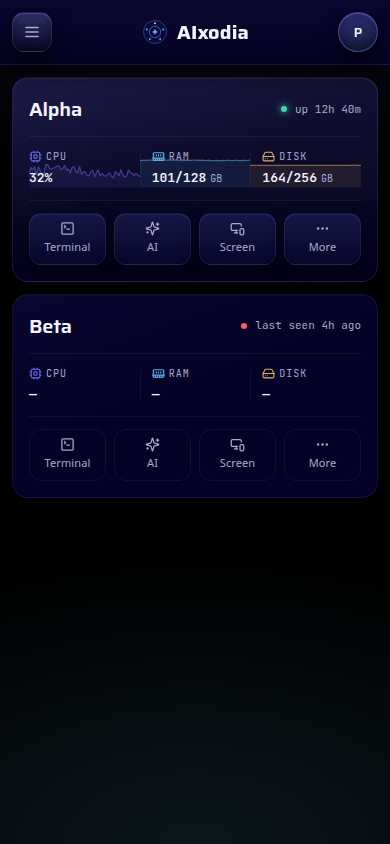
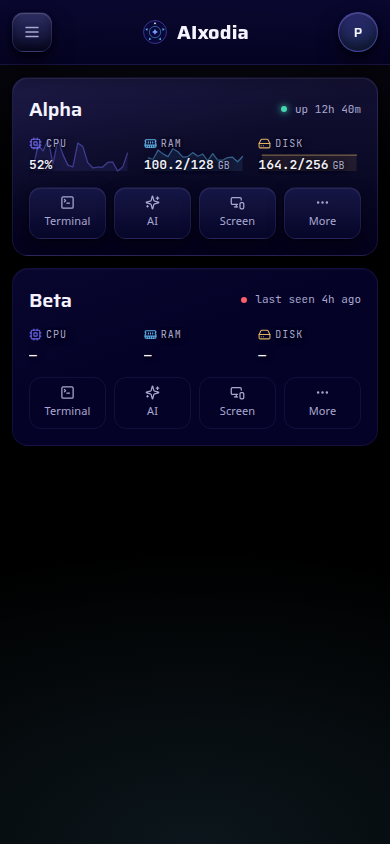
Tighten the spark so it sits with its reading
Move the chart's margins from a generous band to 9 above and 91 below, and pull
its sides in from 8 to 4, so the line starts under the label, ends above the
value and fills its third. 5/95 was tried first and the dips crossed the digits;
9/91 keeps them clear.

diff --git a/src/mock/EnginesMock.tsx b/src/mock/EnginesMock.tsx
@@ -135,12 +135,13 @@ function sampleSeries(seed: number, base: number, swing: number): number[] {
  *  window, one sample draws a level, none draws nothing. */
 function Spark({ values, ceiling, tone }: { values: number[]; ceiling: number; tone: string }) {
   if (!values.length) return null
-  /* The box is the whole cell, so the margins the chart keeps from the frame are
-     part of its geometry rather than CSS offsets: an absolutely positioned SVG
-     with a viewBox keeps its own aspect ratio and refuses to be inset. */
-  const TOP = 14
-  const FLOOR = 88
-  const SIDE = 8
+  /* The box is the whole cell, so the margins the chart keeps are part of its
+     geometry rather than CSS offsets: an absolutely positioned SVG with a viewBox
+     keeps its own aspect ratio and refuses to be inset. The line runs close to the
+     label and the reading, so it reads as theirs rather than as a band behind. */
+  const TOP = 9
+  const FLOOR = 91
+  const SIDE = 4
   const min = Math.min(...values)
   const max = Math.max(...values)
   const span = Math.max(max - min, ceiling * 0.04)

diff --git a/docs/ux-visual/verification/mock.md b/docs/ux-visual/verification/mock.md
@@ -595,3 +595,14 @@ relaxed from `clamp(11px, 3.2vw, …)` to `clamp(11.5px, 3.6vw, …)` and the
 `max-width: 355px` padding fallback was deleted — it had nothing left to reclaim.
 
 Audits clean at 320, 360, 390, 430 and 1440: no spills, `pageScrollY 0`.
+
+## Round 30 — the line belongs to its reading
+
+The spark keeps its margins inside the SVG, not in CSS, so the room around it is
+geometry: `TOP 14 → 9`, `FLOOR 88 → 91`, `SIDE 8 → 4`. The line now starts just
+under the label and stops just above the reading, and it reaches the edges of its
+third instead of floating a few pixels in.
+
+A first pass at `TOP 5 / FLOOR 95` was rejected on the screenshot: the dips ran
+into the upper half of `100.2/128 GB`. `9/91` keeps every digit clear while still
+reading as a tight band. Audits clean at 320, 360, 390, 430 and 1440.
